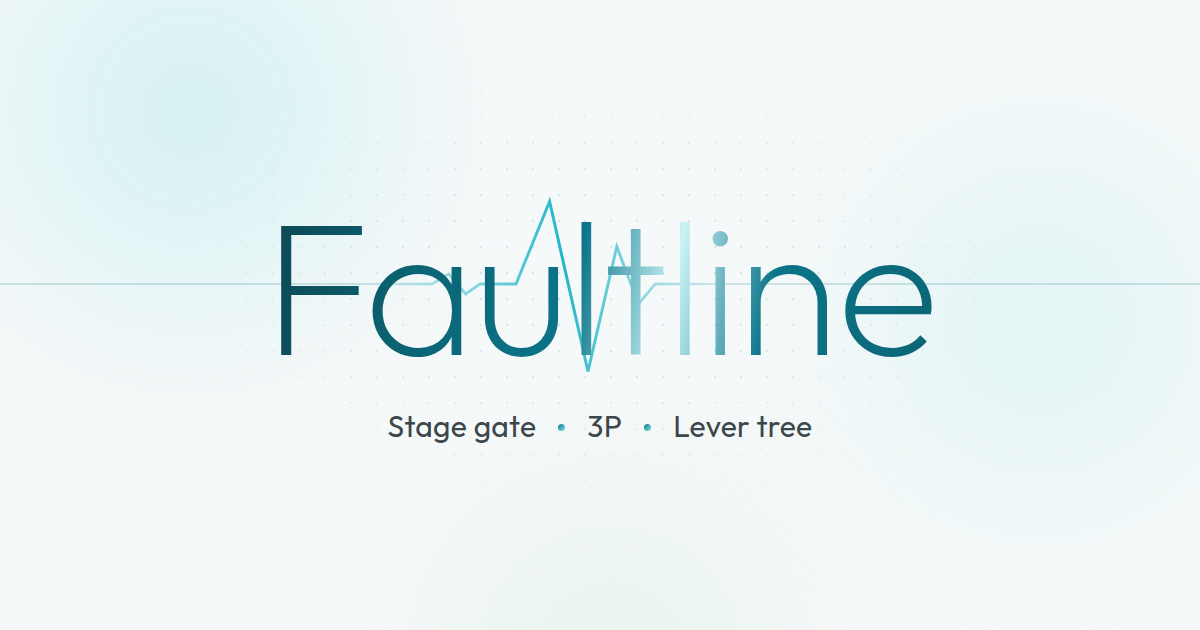
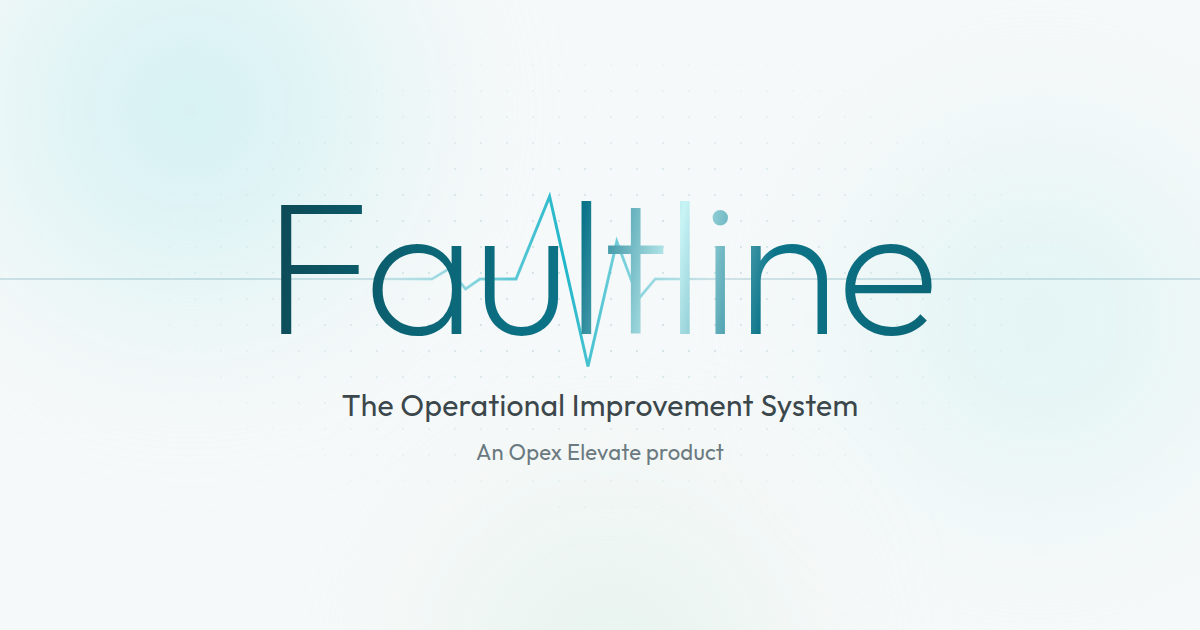
The brand (Rowland, 31 October): Faultline · Opex Elevate · The Operational Improvement System · faultline.opexelevate.co.uk — on the landing page (descriptor, parent), the page title and share preview, the share image, the install name, llms.txt and the crawler mirror, all telling the lifecycle rat
Claude-Session: https://claude.ai/code/session_01NkfGHagzR3nZSuVFV5mXj8

diff --git a/index.html b/index.html
@@ -4,22 +4,22 @@
     <meta charset="UTF-8" />
     <meta name="viewport" content="width=device-width, initial-scale=1, viewport-fit=cover" />
     <meta name="theme-color" content="#f6f4ef" />
-    <title>Faultline — the control room for change on your lines</title>
-    <meta name="description" content="Run every change on your production lines in one place — new equipment through its gates, a line improved week by week, a number hit by a date — each measured before and after, with one view that shows you are in control." />
+    <title>Faultline — The Operational Improvement System | Opex Elevate</title>
+    <meta name="description" content="Faultline is the operational improvement system for production lines, by Opex Elevate: identify the opportunities, diagnose the problems, apply a method (PDCA, DMAIC, 8D, A3, stage gate, Kaizen event, Improvement Kata or Theory of Constraints), organise the delivery and verify the result — every finding in money, measured by people, offline-first." />
     <link rel="canonical" href="https://faultline.opexelevate.co.uk/" />
     <meta property="og:type" content="website" />
     <meta property="og:site_name" content="Faultline" />
-    <meta property="og:title" content="Faultline — the control room for change on your lines" />
-    <meta property="og:description" content="New equipment through its gates. A line improved week by week. A number hit by a date. Every change measured before and after, every owner and date in view, and one report for the client." />
+    <meta property="og:title" content="Faultline — The Operational Improvement System | Opex Elevate" />
+    <meta property="og:description" content="Identify the opportunities. Diagnose the problems. Apply the method that fixes them. Organise the delivery. Verify the result — every finding in money, measured by people, worked out by formula." />
     <meta property="og:url" content="https://faultline.opexelevate.co.uk/" />
     <meta property="og:image" content="https://faultline.opexelevate.co.uk/og.png" />
     <meta property="og:image:width" content="1200" />
     <meta property="og:image:height" content="630" />
-    <meta property="og:image:alt" content="Faultline — stage gate, 3P and lever tree: the control room for change on your lines" />
+    <meta property="og:image:alt" content="Faultline — The Operational Improvement System, an Opex Elevate product" />
     <meta property="og:locale" content="en_GB" />
     <meta name="twitter:card" content="summary_large_image" />
-    <meta name="twitter:title" content="Faultline — the control room for change on your lines" />
-    <meta name="twitter:description" content="New equipment through its gates. A line improved week by week. A number hit by a date. Every change measured before and after, every owner and date in view, and one report for the client." />
+    <meta name="twitter:title" content="Faultline — The Operational Improvement System | Opex Elevate" />
+    <meta name="twitter:description" content="Identify the opportunities. Diagnose the problems. Apply the method that fixes them. Organise the delivery. Verify the result — every finding in money, measured by people, worked out by formula." />
     <meta name="twitter:image" content="https://faultline.opexelevate.co.uk/og.png" />
     <meta name="robots" content="index, follow, max-image-preview:large, max-snippet:-1" />
     <link rel="icon" type="image/svg+xml" href="/mark.svg" />
@@ -39,20 +39,17 @@
           "@id": "https://faultline.opexelevate.co.uk/#app",
           "name": "Faultline",
           "url": "https://faultline.opexelevate.co.uk/",
-          "description": "Faultline is a control room for change on production lines. Every change — new equipment taken through its gates, a running line improved week by week, a number hit by a date — is run on one of three methods, measured before and after, and rolled up into one view that answers \"am I in control?\" across every line and job, and one report for the client.",
+          "description": "Faultline is the operational improvement system for production lines, by Opex Elevate. It takes a line from finding the opportunity, through diagnosing the problem and applying a method, to organising the delivery and verifying the result — every finding in money, measured by people and worked out by formula."am I in control?\" across every line and job, and one report for the client.",
           "applicationCategory": "BusinessApplication",
           "applicationSubCategory": "Manufacturing operations / continuous improvement",
           "operatingSystem": "Any (installable web app — phone, tablet, laptop)",
           "featureList": [
-            "Installation project: new equipment through Install, Set up, Commission and Hand over — tests against what was agreed, fixes, what it waits on, with the supplier",
-            "3P: a line's improvement run week by week on the board, actions sorted People, Plant and Process, each with an owner and a date",
-            "Lever tree: one outcome worked down to what has to be true for it, each condition's colour following its number or the work under it",
-            "Line balance: every machine and person in one unit, the limit found, and what-ifs that show where the limit moves",
-            "A measured before and after on every change, judged against the line's own numbers",
-            "The plan as a live Gantt that asks why a date moved",
+            "Identify the opportunity: time the stops, count the losses and walk the line — the biggest losses in minutes, packs and pounds, line by line across the factory",
+            "Diagnose the problem: capability, reliability, line capacity and balance, losses, analysis and root cause — each measured by people and worked out by formula",
+            "Apply a methodology: PDCA, DMAIC, 8D, A3, Stage gate, Kaizen event, Improvement Kata or Theory of Constraints, each with its sections in order and the tools that fit each",
+            "Organise the delivery: projects, actions with who owes what by when, programs and tests proved on the line, the journey day by day",
+            "Verify the result: a measured before and after on the same number, every finding said in money, and the papers to hand over",
             "The line filmed on a phone, with faults pinned to the spot on the footage",
-            "One control-room view of every job: what is late, who owes what by when",
-            "A client report for each change — on screen and as a PDF — in the same words as the screens",
             "Offline-first: works with no signal on the floor and syncs to every teammate invited"
           ],
           "offers": {
@@ -68,7 +65,7 @@
         {
           "@type": "Organization",
           "@id": "https://faultline.opexelevate.co.uk/#org",
-          "name": "OpEx Elevate",
+          "name": "Opex Elevate",
           "url": "https://faultline.opexelevate.co.uk/"
         },
         {
@@ -80,7 +77,7 @@
               "name": "What is Faultline?",
               "acceptedAnswer": {
                 "@type": "Answer",
-                "text": "A control room for change on production lines. Each change to a line — new equipment, a line that has to perform better, a number that has to be hit — is run on the method that fits it (stage gate, 3P or lever tree), measured before and after, and shown in one view that tells the ops lead whether all of it is in hand."
+                "text": "The operational improvement system for production lines, by Opex Elevate. It covers the whole improvement lifecycle: identifying opportunities, diagnosing problems, applying a methodology (PDCA, DMAIC, 8D, A3, Stage gate, Kaizen event, Improvement Kata or Theory of Constraints), organising delivery and verifying results."
               }
             },
             {
@@ -88,7 +85,7 @@
               "name": "Who is it for?",
               "acceptedAnswer": {
                 "@type": "Answer",
-                "text": "Operations and engineering leads running several changes on production lines at once, who have to show the business — a general manager, a client, an equipment supplier — a formal process and that they are in control of it."
+                "text": "Operations, engineering and continuous-improvement leads in manufacturing — in particular food and other fast-moving consumer goods — who need to find what is costing the line, fix it by a recognised method and show the result."
               }
             },
             {
@@ -96,7 +93,7 @@
               "name": "What does the client get?",
               "acceptedAnswer": {
                 "@type": "Answer",
-                "text": "A client report for each change, built from the same records the screens show: where the job is, what is late and whose it is, the plan, the tests and fixes or the board, the numbers against target, and where the line is limited. On screen and as a PDF."
+                "text": "Papers built from the same records the screens show — what the problem is, what was done, who owes what by when, and the result on the same number before and after, in money — on screen and as a PDF."
               }
             },
             {
@@ -129,15 +126,16 @@
            with the landing page and /how-it-works.html. -->
       <noscript>
         <main>
-          <h1>Faultline — the control room for change on your lines</h1>
-          <p>Show the business a formal process, and that you are in control of every change on your lines.</p>
-          <h2>Three kinds of change, one control room</h2>
+          <h1>Faultline — The Operational Improvement System</h1>
+          <p>An Opex Elevate product. Find the opportunities on your production lines, diagnose what is going wrong, apply the method that fixes it, organise the delivery and verify the result.</p>
+          <h2>The improvement lifecycle</h2>
           <ul>
-            <li><strong>Installation project</strong> — new equipment taken through Install, Set up, Commission and Hand over: tests against what was agreed, fixes, what it waits on, with the supplier.</li>
-            <li><strong>3P</strong> — a running line improved week by week on the board, actions sorted People, Plant and Process, each with an owner and a date.</li>
-            <li><strong>Lever tree</strong> — one outcome worked down to what has to be true for it, each condition's colour following its number or its work.</li>
+            <li><strong>Identify the opportunity</strong> — time the stops, count the losses, walk the line; the biggest losses in minutes, packs and pounds.</li>
+            <li><strong>Diagnose the problem</strong> — capability, reliability, capacity and root cause, measured by people and worked out by formula, never guessed.</li>
+            <li><strong>Apply a methodology</strong> — PDCA, DMAIC, 8D, A3, Stage gate, Kaizen event, Improvement Kata or Theory of Constraints, each with its sections in order and the tools in the section that needs them.</li>
+            <li><strong>Organise the delivery</strong> — projects, actions with who owes what by when, programs and tests proved on the line.</li>
+            <li><strong>Verify the result</strong> — a before and after on the same number, every finding in money, and the papers to hand over.</li>
           </ul>
-          <p>Every change is measured before and after. One view across every line and job answers "am I in control?" — what is late, who owes what by when — and each change has a client report, on screen and as a PDF, in the same words as the screens.</p>
           <p>Offline-first on the phones you already have — works with no signal on the floor, then syncs to every teammate you invite. No sensors, no integrations, no IT project.</p>
           <p><a href="/how-it-works.html">See how it works — real screens</a></p>
         </main>

diff --git a/src/screens/Landing.tsx b/src/screens/Landing.tsx
@@ -20,7 +20,8 @@
  * "project management": "operational improvement system, not a project
  * management system ... the real product is the complete improvement lifecycle:
  * identifying opportunities, diagnosing problems, applying methodologies,
- * organising delivery and verifying results"). So: the sentence, the eight
+ * organising delivery and verifying results"). The brand, settled the same day: the product *Faultline*, the
+ * descriptor *The Operational Improvement System*, the parent *Opex Elevate*, at faultline.opexelevate.co.uk. So: the descriptor and the sentence, the eight
  * methods a project can run (read from lib/methods, never retyped here) as the
  * *apply a methodology* step, and the five stages of the lifecycle in order.
  * Projects are one of the five, not the page's subject. The sign-in stays one
@@ -90,10 +91,10 @@ export function Landing() {
           <h1 className="door-name">Faultline</h1>
         </div>
 
+        <h2 className="door-descriptor">The Operational Improvement System</h2>
         <p className="door-lede">
-          The operational improvement system for production lines. Find the opportunities,
-          diagnose what is going wrong, apply the method that fixes it, organise the delivery
-          and verify the result.
+          Find the opportunities on your production lines, diagnose what is going wrong, apply the
+          method that fixes it, organise the delivery and verify the result.
         </p>
         <p className="door-methods" aria-label="The eight methods a project can run">
           {METHODS.map((m, i) => (
@@ -154,6 +155,7 @@ export function Landing() {
         </ol>
         </div>
 
+        <p className="door-parent">An <b>Opex Elevate</b> product</p>
       </main>
     </div>
   );

diff --git a/src/styles.css b/src/styles.css
@@ -7606,8 +7606,14 @@ button.tl-m.is-go:hover .tl-lab-t { text-decoration: underline; }
 .door-methods span { display: inline-flex; align-items: center; }
 .door-sep { display: inline-block; width: 4px; height: 4px; margin: 0 14px; border-radius: var(--radius-round); background: linear-gradient(135deg, var(--door-blue), var(--door-sky)); }
 
+.door-descriptor {
+  margin: 14px 0 0; text-align: center; font-family: "Outfit Variable", var(--display); font-size: var(--t-h); font-weight: 500;
+  letter-spacing: -0.005em; color: var(--door-blue);
+}
+.door-parent { margin: 34px 0 0; text-align: center; font-size: var(--t-detail); color: var(--door-mute); }
+.door-parent b { font-weight: 600; color: var(--door-ink-2); }
 .door-lede {
-  max-width: 640px; margin: 20px 0 0; text-align: center; text-wrap: balance;
+  max-width: 640px; margin: 8px 0 0; text-align: center; text-wrap: balance;
   font-family: "Outfit Variable", var(--display); font-size: clamp(18px, 2.2vw, 24px); font-weight: 300; line-height: 1.35; color: var(--door-ink);
 }
 .door-methods { margin-top: 14px; }

diff --git a/vite.config.ts b/vite.config.ts
@@ -39,9 +39,9 @@ export default defineConfig({
       injectRegister: 'auto',
       includeAssets: ['mark.svg', 'apple-touch-icon.png', 'icon-192.png', 'icon-512.png', 'icon-maskable-512.png'],
       manifest: {
-        name: 'Faultline — control room for change',
+        name: 'Faultline — The Operational Improvement System',
         short_name: 'Faultline',
-        description: 'The control room for change on your production lines: new equipment through its gates, a line improved week by week, a number hit by a date — each measured before and after, all of it in one view. Works offline on the floor.',
+        description: 'The operational improvement system for production lines, by Opex Elevate: identify opportunities, diagnose problems, apply a method, organise the delivery and verify the result. Works offline on the floor.',
         start_url: '/',
         scope: '/',
         display: 'standalone',

diff --git a/CLAUDE.md b/CLAUDE.md
@@ -72,7 +72,7 @@ Programs, tests and machines live on the line and are the **Prove** engine — t
 ## The methods are the projects — 31 October
 
 **Read `docs/METHODS.md` before touching New project, a project's page, or the
-order tools are built.** **What the app is** (Rowland, 31 October, correcting the wording the same day): *"operational improvement system, not a project management system … the projects are just one part of the process. The real product is the complete improvement lifecycle: identifying opportunities, diagnosing problems, applying methodologies, organising delivery and verifying results."* So Faultline is an **operational improvement system**, never called a project-management system on a screen, paper or the landing page; a project is the delivery part of it. On the methods: *"the method equals the project"*; *"build methods first … and
+order tools are built.** **What the app is** (Rowland, 31 October, correcting the wording the same day): *"operational improvement system, not a project management system … the projects are just one part of the process. The real product is the complete improvement lifecycle: identifying opportunities, diagnosing problems, applying methodologies, organising delivery and verifying results."* So Faultline is an **operational improvement system**, never called a project-management system on a screen, paper or the landing page (**The brand (31 October, Rowland):** product **Faultline**; parent brand **Opex Elevate**; descriptor **The Operational Improvement System**; domain **faultline.opexelevate.co.uk**. The landing page, the page title and share preview (`index.html`, `public/og.png` by `scripts/brand-assets.mjs`), the install name (`vite.config.ts`) and `public/llms.txt` say it; the company is written *Opex Elevate*, never *OpEx* or *OPEX Elevate*.); a project is the delivery part of it. On the methods: *"the method equals the project"*; *"build methods first … and
 we simply insert the tools where required."* Eight methods, agreed the same day:
 **PDCA · DMAIC · 8D · A3 · Stage gate · Kaizen event · Improvement Kata · Theory of
 Constraints**. A project is one of them: its sections in order, each with default
@@ -607,7 +607,7 @@ node scripts/acceptance/one-machine.mjs  # one record of a machine (docs/STAGEGA
 node scripts/acceptance/where-am-i.mjs  # where am I (27 October — Rowland: "Where am I? Overview? ... I do not see a machine page"): A the menu names the line under Factory and the project under Projects, lit, Factory not; B a line's Programs is that line's — named, no other line's chip, every line's one tap up in the Factory where the chips still narrow — and its Problems has no line picker; C a Machines tab, each name and every Overview machine card opening the machine's page, which lights Machines; D one name, Factory — the lines headed Lines, each card saying Open, the Lines page titled Lines, no "Your factory"; E a project's machine page goes to the same machine on its line, the project named there; F the bar Factory › the place › the page, the place's name opening its first page, Go to ▾ the picker; the phone — nothing off the side, the bar lighting Factory inside a line
 node scripts/acceptance/front-door.mjs  # the front door as it is since 20 October (docs/DIRECTION.md): an empty device — the question first, nothing under way said so, the three kinds of change by name and situation, the eleven tools (Line Talk and Reliability among them) each saying what it is for, Your factory to set up, Home and Projects in the rail, and no words box, library of methods, Methods or switch; a kind tapped opening New job with it picked and only the three offered, the project made and listed under way, its row opening it; the lever tree picked the same way; an old link to Methods or the studio landing on the front door; the phone
 node scripts/acceptance/methods.mjs  # M3 (docs/METHODS.md — Rowland, 31 October: "the method equals the project"): New project offers the eight methods in order, none picked, each card its question and its sections, ?model=commissioning picking Stage gate and ?method=dmaic picking DMAIC; every method but the stage gate made from its card and opening on its method page — the band, its sections in the module's order (PDCA's four, DMAIC's five, 8D's seven…); the tools said honestly (a tool not built says so and has no New, a mode names its tool, a built tool has New); New starting the tool in the project, Add a tool, the smoke seed's DMAIC project counting its one capability study back on the rows, the sections and the header; the Projects chips the methods; a stage gate from its card landing on Install; the phone
-node scripts/acceptance/landing.mjs  # the landing page, signed out (31 October — Rowland: "the app has changed, we need it to represent what it is", then "operational improvement system, not a project management system"): the name, the sentence (The operational improvement system for production lines — find the opportunities, diagnose, apply a method, organise the delivery, verify the result), never "project management" nor the old words; the eight methods under it as lib/methods names them in order; the five lifecycle stages in order; the sign-in — held until both boxes are filled, the no-signal message in words, Create account and back; at a desk the five stages beside the sign-in, on a 390 and a 320 phone the sign-in first and nothing off the side
+node scripts/acceptance/landing.mjs  # the landing page, signed out (31 October — Rowland: "the app has changed, we need it to represent what it is", "operational improvement system, not a project management system", and the brand: Faultline · Opex Elevate · The Operational Improvement System): the name, the descriptor, the sentence (find the opportunities, diagnose, apply a method, organise the delivery, verify the result), An Opex Elevate product, never "project management" nor the old words; the eight methods under it as lib/methods names them in order; the five lifecycle stages in order; the sign-in — held until both boxes are filled, the no-signal message in words, Create account and back; at a desk the five stages beside the sign-in, on a 390 and a 320 phone the sign-in first and nothing off the side
 node scripts/acceptance/structure.mjs  # the structure (docs/STRUCTURE.md §18), slice by slice — B0: a problem offered only to somebody who may change the project's work; a client offered none inside it (their rows are never sent), told so on the sheet with Save held, offered it off a project; B2: every page in PAGES.md naming its place in the context bar (Home, the factory, a line, a project) at desk and phone, each scope's rail its own and within its size (factory 8, line 9, project 18), the phone's bar the scope's own five on every page of it, ＋ the problem form in one tap with the line set, and with 30 more lines and 50 more projects the factory's rail still 8 and any line or project found by the switcher in three keystrokes as before
 node scripts/acceptance/machine-reports.mjs  # the machines on paper (27 October — Rowland: "factory machines tells you nothing ... still no report abilities"): the Factory's Machines, a project's machine saying what its project says of it (status, where it is up to, programs, owed, next) and opening its page there, one with no project saying so; The factory's machines, a project's Machines report (the rows, then a page a machine) and a machine's own Machine report — in the project and on its line — each downloaded and read back against the page; the phone; then in full (27 October — "all you've done is headlines"): every machine with every test and every attempt, every program and its tests, every step, its problems and their journey, the studies — on a line's Report ▾ (every machine on the line) and the Factory's, a page a machine
 node scripts/acceptance/line-is-home.mjs  # the line is home (docs/MAP.md — Rowland, 27 October: "My line is my home page ... line 2A actually has six machines on it. It doesn't"): the Factory's card opening the line, its machine strip its machines and only them (a Line capacity station never a card); a card opening the machine's one page — Factory › line › machine in two taps; a project's address for the machine opening that same page in the line's frame, the project's part first (its status, Going through, its four gates, what is open, its tests, its programs), no link to a second page of it; a test on it opening in the drawer over it, and the project's address with ?open= keeping the drawer; the project on it opening the project; a stage-gate project's line opening the line's own page; the project's Machines rows opening the one page; the phone

diff --git a/docs/PAGES.md b/docs/PAGES.md
@@ -118,7 +118,7 @@ So:
 | Check logs — one kind's list | #/log/:key (e.g. #/log/metal-detection): the kind's name, what it is for and the counts · New (named for the kind: *New metal detector check log*) opening the starter sheet — the starter checks ticked, edited, never presented as the standard · what the list rests on and its things still TO CONFIRM (a clause is quoted only where it has been read) · its logs, the most urgent first, each saying where it stands · New opens the starter sheet with **the line picker that can make the line** ("A log belongs to a line — add yours here." on a device with none; "＋ A new line…" last) and the starter list as 44 px rows |
 | A check log | #/log/:key/:id (Rowland, 25 October; `FC-170`, `FC-177`, `FC-013`, `FC-062`, `FC-234`, `FC-063` planned maintenance with standard hours and a **Backlog** tile in crew-hours): the tool shell — More ▾ (Rename, Delete with Undo), Report ▾ (the log on paper), Belongs to · the band and its verdict · the tiles, each *of* the plan and *since the 7 days before* — done on time, missed, failed, product held (a log that holds product), the latest score (a scored log) · what it says in a sentence · what it means (the weakest heading, findings that came back, how near a limit and which way it is going, a clean record's bound, tags raised and a place tagged again) · three views of one log: **Round** (what is due now, a card each with one big tap — ✓ Pass / ✗ Fail, a number and Record, Start the audit, Tag it; then what is done, then the checks that wait for an event), **History** (every result, struck never erased; compliance by check; each failure with what it held; the audits in order with the findings; the tags) and **The checks** (the list as agreed: edit, take off with Undo, add; only the project's owner) · a failure's sheet says what it will hold *before* it is recorded, and raises one problem on the register · the action plan (the problems raised from this log) · the closing line · a client reads and writes nothing · **Pass all due · N** in the Round's *Due now* (two or more pass-or-fail checks due now or overdue): a confirmation names how many and which, records nothing until pressed, passes none that needs a reading, a count or an audit and none that has failed, one Undo strikes all (`data-pass-all`, `passAll.ts`) · **on a phone the round is first** — the band, the three views and the first check with its Pass and Fail on the first screen, the figures (`.lg-figs`: tiles, sentence, what it means) after it, then Belongs to, the action plan and the closing line; a desk keeps the figures first · every small link on the page and the starter list's rows are 44 px on a phone |
 | A line — its logs | #/lines/:ws?view=logs (25 October): Stops timed first (as before, the line's first log) then every check log on the line, each saying where it stands · what the line's logs say · on the line's overview a **Checks** tile once it has a log (checks overdue or failed, due now) and the closing line saying it; on the line report the tile and every check owed in its action plan, who owes what by when. In a project, its Needs you lists a check overdue, failed or due now and the row opens the log |
-| The landing page (signed out) | #/ with nobody signed in (31 October — Rowland: *"the app has changed, we need it to represent what it is"*, then, correcting the first cut: *"operational improvement system, not a project management system … the complete improvement lifecycle"*; `scripts/acceptance/landing.mjs`, not the inventory — it needs no session): the name across the page on the mark's pulse · **what it is** in one sentence — *The operational improvement system for production lines* — find the opportunities, diagnose what is going wrong, apply the method that fixes it, organise the delivery, verify the result · **the eight methods** by name, read from `lib/methods` · **the five stages of the lifecycle** in order — *Identify the opportunity · Diagnose the problem · Apply a methodology · Organise the delivery · Verify the result*, each in the floor's words (measured by people and worked out by formula; sections in order; every finding in money, a before and after, the papers) · the sign-in beside them at a desk and first on a phone — Email, Password, Sign in (held until both are filled), *Been invited? Create your account*, the signal said in words · never *project management*, nor the old words (*Performance (6M)*, *Programs and tests on the line*) |
+| The landing page (signed out) | #/ with nobody signed in (31 October — Rowland: *"the app has changed, we need it to represent what it is"*, then, correcting the first cut: *"operational improvement system, not a project management system … the complete improvement lifecycle"*; `scripts/acceptance/landing.mjs`, not the inventory — it needs no session): the name across the page on the mark's pulse · **the descriptor** *The Operational Improvement System* · **what it does** in one sentence — find the opportunities on your production lines, diagnose what is going wrong, apply the method that fixes it, organise the delivery, verify the result · **the parent brand** at the foot — *An Opex Elevate product* (brand set 31 October: Faultline · Opex Elevate · faultline.opexelevate.co.uk) · **the eight methods** by name, read from `lib/methods` · **the five stages of the lifecycle** in order — *Identify the opportunity · Diagnose the problem · Apply a methodology · Organise the delivery · Verify the result*, each in the floor's words (measured by people and worked out by formula; sections in order; every finding in money, a before and after, the papers) · the sign-in beside them at a desk and first on a phone — Email, Password, Sign in (held until both are filled), *Been invited? Create your account*, the signal said in words · never *project management*, nor the old words (*Performance (6M)*, *Programs and tests on the line*) |
 | Projects | #/projects · every project, the first due first — each with its kind, who leads it, its lines and its handover · the kinds and the archive as chips that are the counts and the filters · All lines to narrow it to one line · **New project** offers the eight methods (31 Oct, M3 — see *New project*) (23 October, docs/STRUCTURE.md §5.6 B5: the archive moved behind its chip) |
 | New project | **Which method will run it?** (31 October, docs/METHODS.md M3 — Rowland: *"the method equals the project"*) — eight cards, none picked for you: **PDCA · DMAIC · 8D · A3 · Stage gate · Kaizen event · Improvement Kata · Theory of Constraints**, each with its question and its sections in order · a card picked opens the Name, Lead and Which lines box (and the handover date for the stage gate) and **Create project** (the stage gate: *Create and add the machines*) · programs and tests live on the line, said once · an older `?model=commissioning` address picks the Stage gate card, `?method=dmaic` picks DMAIC · 6M and the lever tree are not offered (6M is a tool used inside the methods; a project from before them still opens as it did) |
 | A method project — its sections | #/project/:id for a project whose method is not the stage gate (31 October, M3): the page header — the method's name and its question, with how many tools have been used in the project · **each section in order** (DMAIC: Define · Measure · Analyse · Improve · Control) with what happens in it and how many of its tools have been used here · under each, the tools that fit it by default, **each said honestly** — Built, Built with limits, a mode of another tool, built into the app, or *Not built yet* (the catalogue's own word) — with how often it has been used in this project, a row opening the tool in the project, and **New** on every tool that exists (started in the project, never asking *for a project?*) · **Add a tool** on each section — any tool, started in the project · *Also used here* — tools used in the project that the method does not list · nothing is stored but the project's `method` and the uses it already has |

diff --git a/docs/DIRECTION.md b/docs/DIRECTION.md
@@ -72,7 +72,7 @@ line needs it — never to fill a catalogue.
 
 ## 31 October — Faultline is an operational improvement system; a project is one part of it, and a project is a method
 
-**What it is — Rowland's correction, 31 October, the same day:** *"operational improvement system, not a project management system … the projects are just one part of the process. The real product is the complete improvement lifecycle: identifying opportunities, diagnosing problems, applying methodologies, organising delivery and verifying results."* Faultline is **not** a project-management system and is never described as one on a screen, a paper or the landing page. Its lifecycle, and where each part lives: **identify** opportunities (the Factory board, the line's losses, the problems register) · **diagnose** problems (the technical tools — capability, reliability, capacity, losses, analysis, root cause) · **apply** a methodology (the eight methods below) · **organise** delivery (projects, actions with who and by when, programs and tests on the line, the journey) · **verify** results (a before and after on the same number, every finding in money, the papers). A project is the *delivery* part, no more.
+**What it is — Rowland's correction, 31 October, the same day:** *"operational improvement system, not a project management system … the projects are just one part of the process. The real product is the complete improvement lifecycle: identifying opportunities, diagnosing problems, applying methodologies, organising delivery and verifying results."* Faultline is **not** a project-management system and is never described as one on a screen, a paper or the landing page. **The brand (31 October, Rowland):** product **Faultline**; parent brand **Opex Elevate**; descriptor **The Operational Improvement System**; domain **faultline.opexelevate.co.uk**. The landing page, the page title and share preview (`index.html`, `public/og.png` by `scripts/brand-assets.mjs`), the install name (`vite.config.ts`) and `public/llms.txt` say it; the company is written *Opex Elevate*, never *OpEx* or *OPEX Elevate*. Its lifecycle, and where each part lives: **identify** opportunities (the Factory board, the line's losses, the problems register) · **diagnose** problems (the technical tools — capability, reliability, capacity, losses, analysis, root cause) · **apply** a methodology (the eight methods below) · **organise** delivery (projects, actions with who and by when, programs and tests on the line, the journey) · **verify** results (a before and after on the same number, every finding in money, the papers). A project is the *delivery* part, no more.
 
 Rowland, 31 October, on the methods: *"the method equals the project … build the
 methods first … and we simply insert the tools where required."* His earlier wording that day ("a project management system that provides the essential tools to understand the line's faults … the technical tools and the process to solve the problems") is superseded by the correction above.
